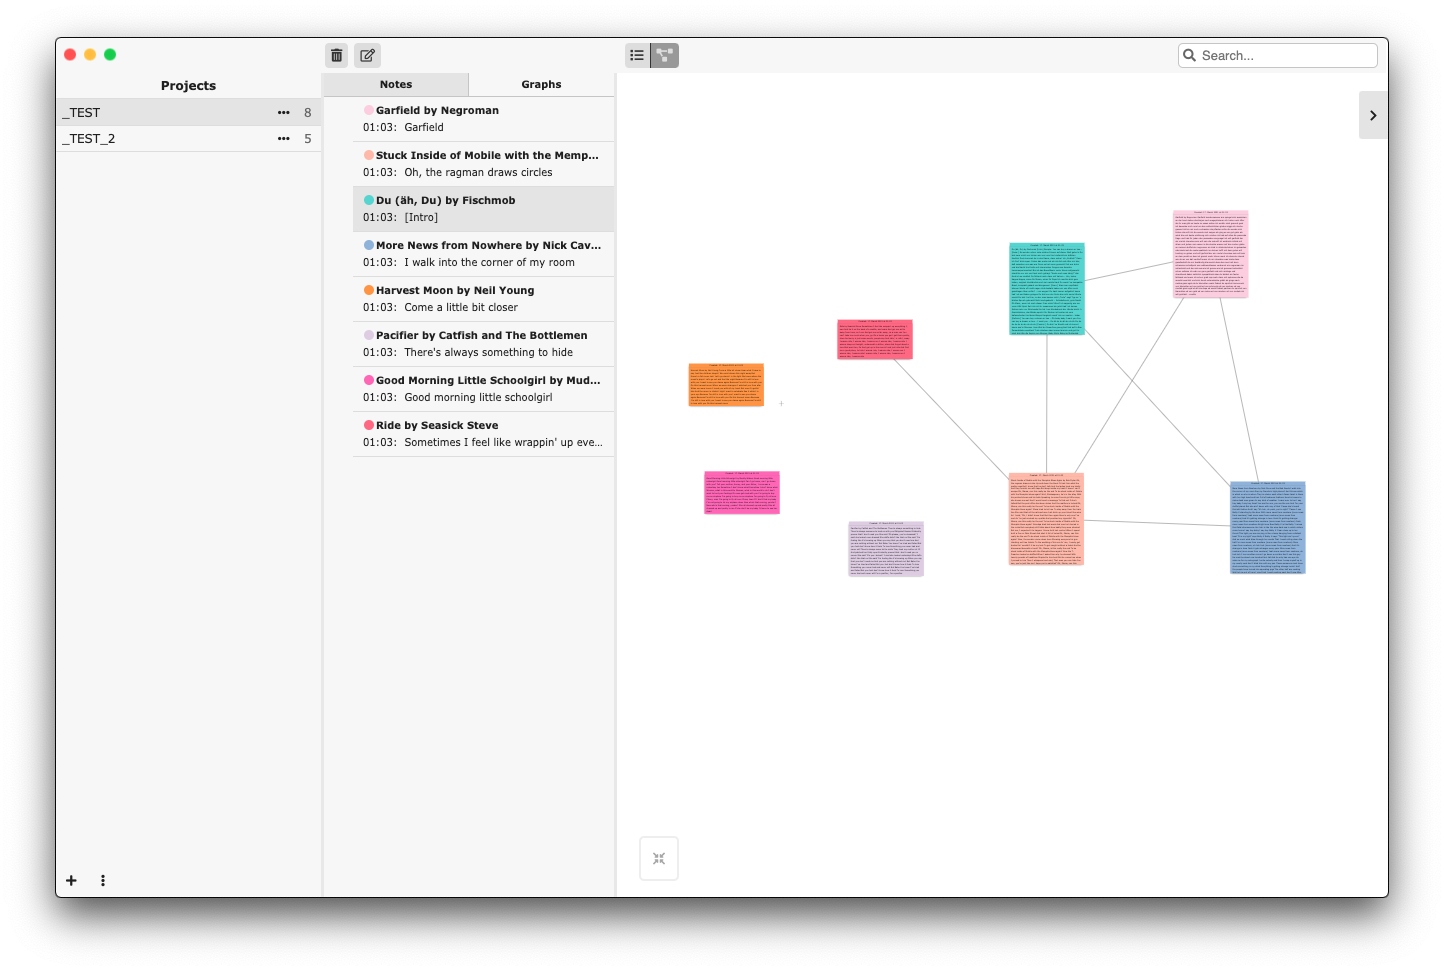
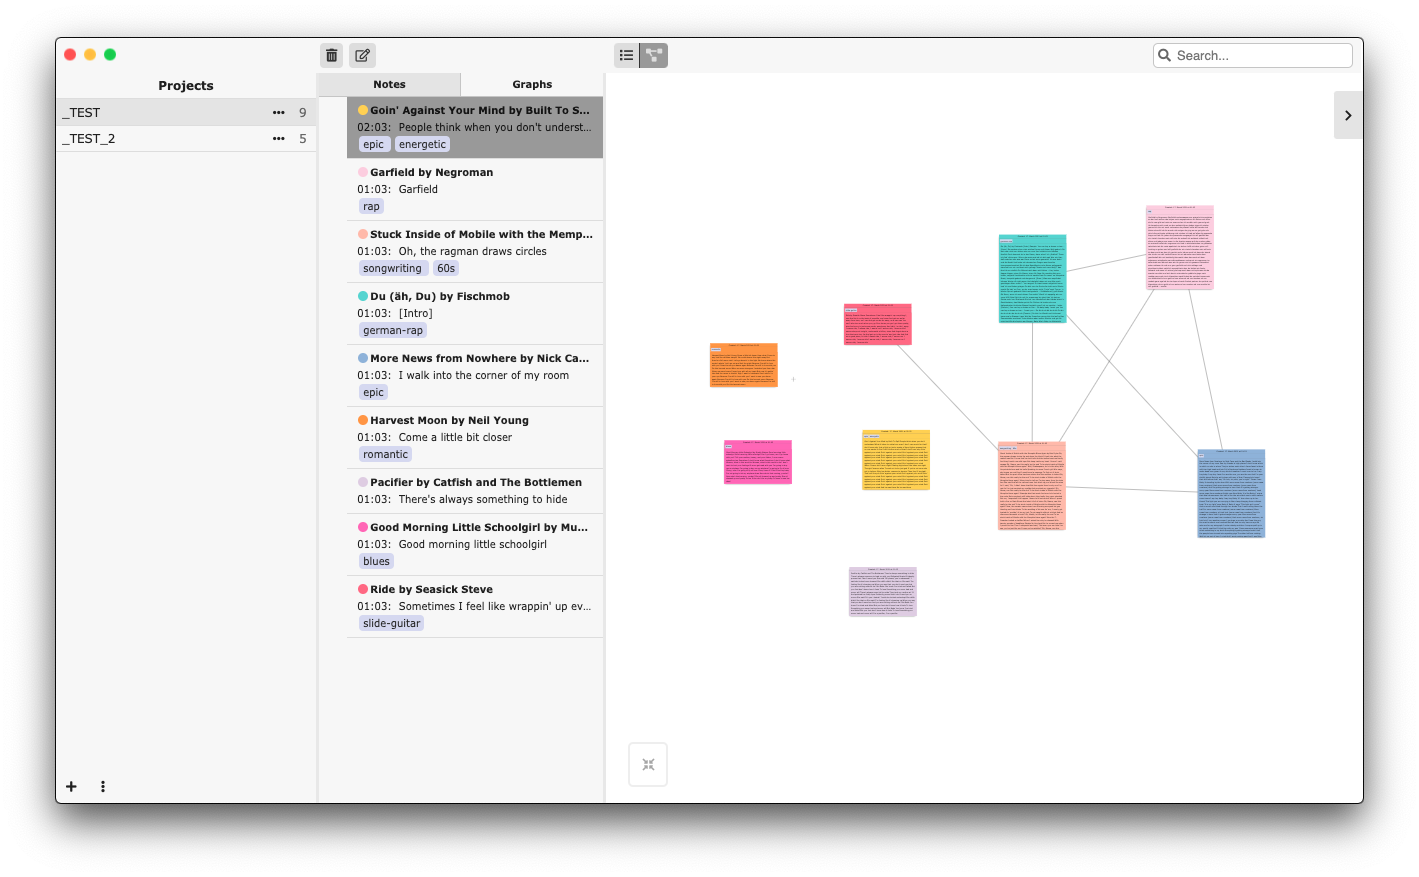
Images & README.md

diff --git a/README.md b/README.md
@@ -5,7 +5,9 @@ A customised brainstorming tool that saves tons of paper (notebooks or plain DIN
 It's functionality is inspired by note taking apps and extended to enable better visual display of your thoughts and ideas while staying as simple as possible. (therefore: __A__ lmost __J__ ust __A__ nother __N__ otes __A__ pp)
 Very similar to Apple Notes App for a simple reason, in my opinion one of the best notes applications out there, simply for the reason that creates the perfect combination of usability and simplicity.
 
-![Note Editor](/images/bulb_note_editor.png)
+![Note Editor](/images/bulb_note_editor_2.png)
+
+![Note Editor Local Search](/images/bulb_note_editor_local_search.png)
 
 __Next writing notes & search, Bulb offers additional features such as:__
 1. __Graph View__: You can switch between a note editor and a graph editor display where you can set connections between your notes. This should assist your work process in a mindmap way. _E.g. in a one man software development endeavor, during a more advanced writing process, systems analysis, investigation, information gathering, etc. you often find yourself in a situation, where you benefit from organising your thoughts in a map display or something similar, to see connections and change the perspective on the data, to minimise the efforts of your brain to do so and then focus its energy on the actual analytical thought process._
@@ -14,7 +16,7 @@ __Next writing notes & search, Bulb offers additional features such as:__
 
 ![Graph Editor](/images/bulb_graph_editor.png)
 
-![Active Search](/images/bulb_active_search.png)
+![Graph Global Search](/images/bulb_graph_global_search.png)
 
 ## Usage
 Bulb works project based. You simply create one to several databases within your project (research, code, etc.), thus you have everything in one place. 
@@ -35,7 +37,7 @@ __Running the development server:__
 gulp start
 ```
 
-## Architecture Overview
+## Architectural Overview
 ![App Architecture](/images/app_architecture.png)
 
 
